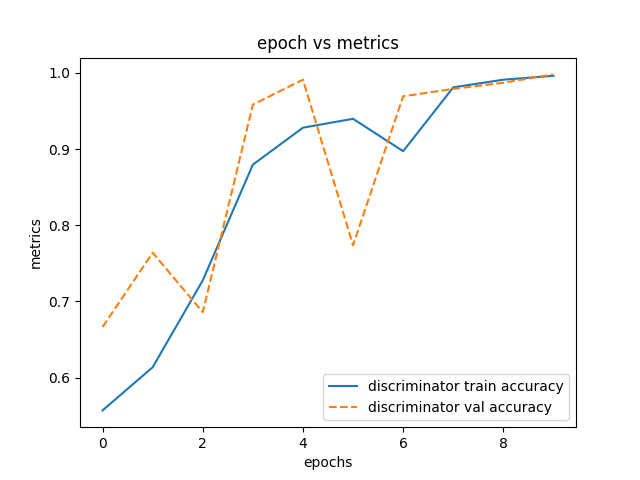
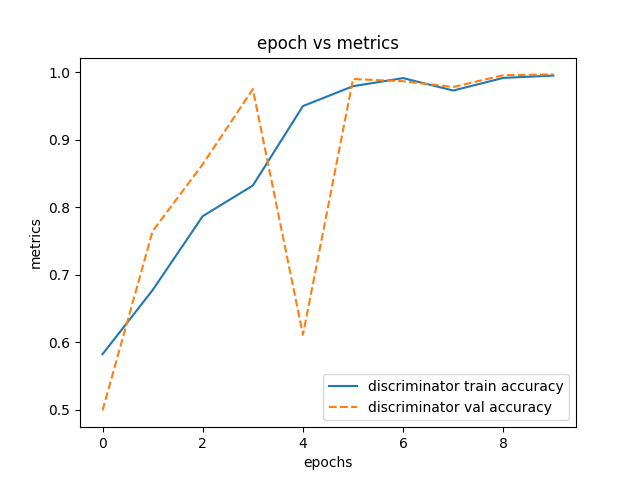
Added BatchNormalization

diff --git a/project-2/src/model/SGAN/Generator.py b/project-2/src/model/SGAN/Generator.py
@@ -2,22 +2,40 @@ from tensorflow import keras
 from keras import layers
 
 class Generator(keras.Model):
-    def __init__(self, latent_dim, kernel_initializer='he_uniform', alpha=0.): 
+    def __init__(self, latent_dim, kernel_initializer='he_uniform', alpha=0.3): 
         super(Generator, self).__init__()
         self.reshape = layers.Reshape((latent_dim,1))
-        self.dense = layers.Dense(128, kernel_initializer=kernel_initializer, activation=layers.LeakyReLU(alpha))
-        self.conv1 = layers.Conv1DTranspose(64, kernel_size=7, strides=4, kernel_initializer=kernel_initializer, activation=layers.LeakyReLU(alpha), padding='same')
-        self.conv2 = layers.Conv1DTranspose(32, kernel_size=7, strides=4, kernel_initializer=kernel_initializer, activation=layers.LeakyReLU(alpha), padding='same')
-        self.conv3 = layers.Conv1DTranspose(16, kernel_size=7, strides=4, kernel_initializer=kernel_initializer, activation=layers.LeakyReLU(alpha), padding='same')
-        self.conv4 = layers.Conv1DTranspose(1, kernel_size=69, strides=2, kernel_initializer=kernel_initializer, activation='tanh', padding='same')
+        self.dense = layers.Dense(128, kernel_initializer=kernel_initializer, use_bias=False)
+        self.bn1 = layers.BatchNormalization()
+        self.leakyrelu1 = layers.LeakyReLU(alpha) 
+        self.conv1 = layers.Conv1DTranspose(64, kernel_size=7, strides=4, padding='same', kernel_initializer=kernel_initializer, use_bias=False)
+        self.bn2 = layers.BatchNormalization()
+        self.leakyrelu2 = layers.LeakyReLU(alpha) 
+        self.conv2 = layers.Conv1DTranspose(32, kernel_size=7, strides=4, padding='same', kernel_initializer=kernel_initializer, use_bias=False)
+        self.bn3 = layers.BatchNormalization()
+        self.leakyrelu3 = layers.LeakyReLU(alpha) 
+        self.conv3 = layers.Conv1DTranspose(16, kernel_size=7, strides=4, padding='same', kernel_initializer=kernel_initializer, use_bias=False)
+        self.bn4 = layers.BatchNormalization()
+        self.leakyrelu4 = layers.LeakyReLU(alpha) 
+        self.conv4 = layers.Conv1DTranspose(1, kernel_size=69, strides=2, padding='same', kernel_initializer=kernel_initializer, use_bias=False)
+        self.tanh = layers.Activation('tanh')
          
     def call(self, inputs):
         x = self.reshape(inputs)
         x = self.dense(x)
+        x = self.bn1(x)
+        x = self.leakyrelu1(x)
         x = self.conv1(x)
+        x = self.bn2(x)
+        x = self.leakyrelu2(x)
         x = self.conv2(x)
+        x = self.bn3(x)
+        x = self.leakyrelu3(x)
         x = self.conv3(x)
+        x = self.bn4(x)
+        x = self.leakyrelu4(x)
         x = self.conv4(x)
+        x = self.tanh(x)
         return x 
 
 if __name__ == "__main__":

diff --git a/project-2/src/model/SGAN/Discriminator.py b/project-2/src/model/SGAN/Discriminator.py
@@ -5,10 +5,18 @@ class Discriminator(keras.Model):
     def __init__(self, input_dim, n_classes, filter_size=8, kernel_initializer='he_uniform', alpha=0.3):
         super(Discriminator, self).__init__()
         self.reshape = layers.Reshape((input_dim,1))
-        self.conv1 = layers.Conv1D(filter_size, kernel_size=69, strides=1, kernel_initializer=kernel_initializer, activation=layers.LeakyReLU(alpha))
-        self.conv2 = layers.Conv1D(filter_size*2, kernel_size=7, strides=4, kernel_initializer=kernel_initializer, activation=layers.LeakyReLU(alpha))
-        self.conv3 = layers.Conv1D(filter_size*4, kernel_size=7, strides=4, kernel_initializer=kernel_initializer, activation=layers.LeakyReLU(alpha))
-        self.conv4 = layers.Conv1D(filter_size*8, kernel_size=7, strides=4, kernel_initializer=kernel_initializer, activation=layers.LeakyReLU(alpha))
+        self.conv1 = layers.Conv1D(filter_size, kernel_size=69, strides=1, kernel_initializer=kernel_initializer, use_bias=False)
+        self.bn1 = layers.BatchNormalization()
+        self.leakyrelu1 = layers.LeakyReLU(alpha)
+        self.conv2 = layers.Conv1D(filter_size*2, kernel_size=7, strides=4, kernel_initializer=kernel_initializer, use_bias=False)
+        self.bn2 = layers.BatchNormalization()
+        self.leakyrelu2 = layers.LeakyReLU(alpha)
+        self.conv3 = layers.Conv1D(filter_size*4, kernel_size=7, strides=4, kernel_initializer=kernel_initializer, use_bias=False)
+        self.bn3 = layers.BatchNormalization()
+        self.leakyrelu3 = layers.LeakyReLU(alpha)
+        self.conv4 = layers.Conv1D(filter_size*8, kernel_size=7, strides=4, kernel_initializer=kernel_initializer, use_bias=False)
+        self.bn4 = layers.BatchNormalization()
+        self.leakyrelu4 = layers.LeakyReLU(alpha)
         self.flatten = layers.Flatten()
         self.dense = layers.Dense(n_classes)
         self.softmax = layers.Softmax()
@@ -16,9 +24,17 @@ class Discriminator(keras.Model):
     def call(self, inputs):
         x = self.reshape(inputs) 
         x = self.conv1(x)
+        x = self.bn1(x)
+        x = self.leakyrelu1(x)
         x = self.conv2(x)
+        x = self.bn2(x)
+        x = self.leakyrelu2(x)
         x = self.conv3(x)
+        x = self.bn3(x)
+        x = self.leakyrelu3(x)
         x = self.conv4(x)
+        x = self.bn4(x)
+        x = self.leakyrelu4(x)
         x = self.flatten(x)
         x = self.dense(x)
         return self.softmax(x), x

diff --git a/project-2/src/model/SGAN/train_toy.py b/project-2/src/model/SGAN/train_toy.py
@@ -11,7 +11,7 @@ from numpy.random import RandomState
 # add parent directory of project to system path, to access all the packages in project, sys.path.append appends are not permanent
 sys.path.append(os.path.dirname(os.path.dirname(os.path.dirname(os.path.dirname(os.path.abspath(__file__))))))
 
-from GAN import GAN
+from SGAN import SGAN
 from src.data.toy_models.ParabolicModel import ParabolicModel
 from src.data.toy_models.SineModel import SineModel
 
